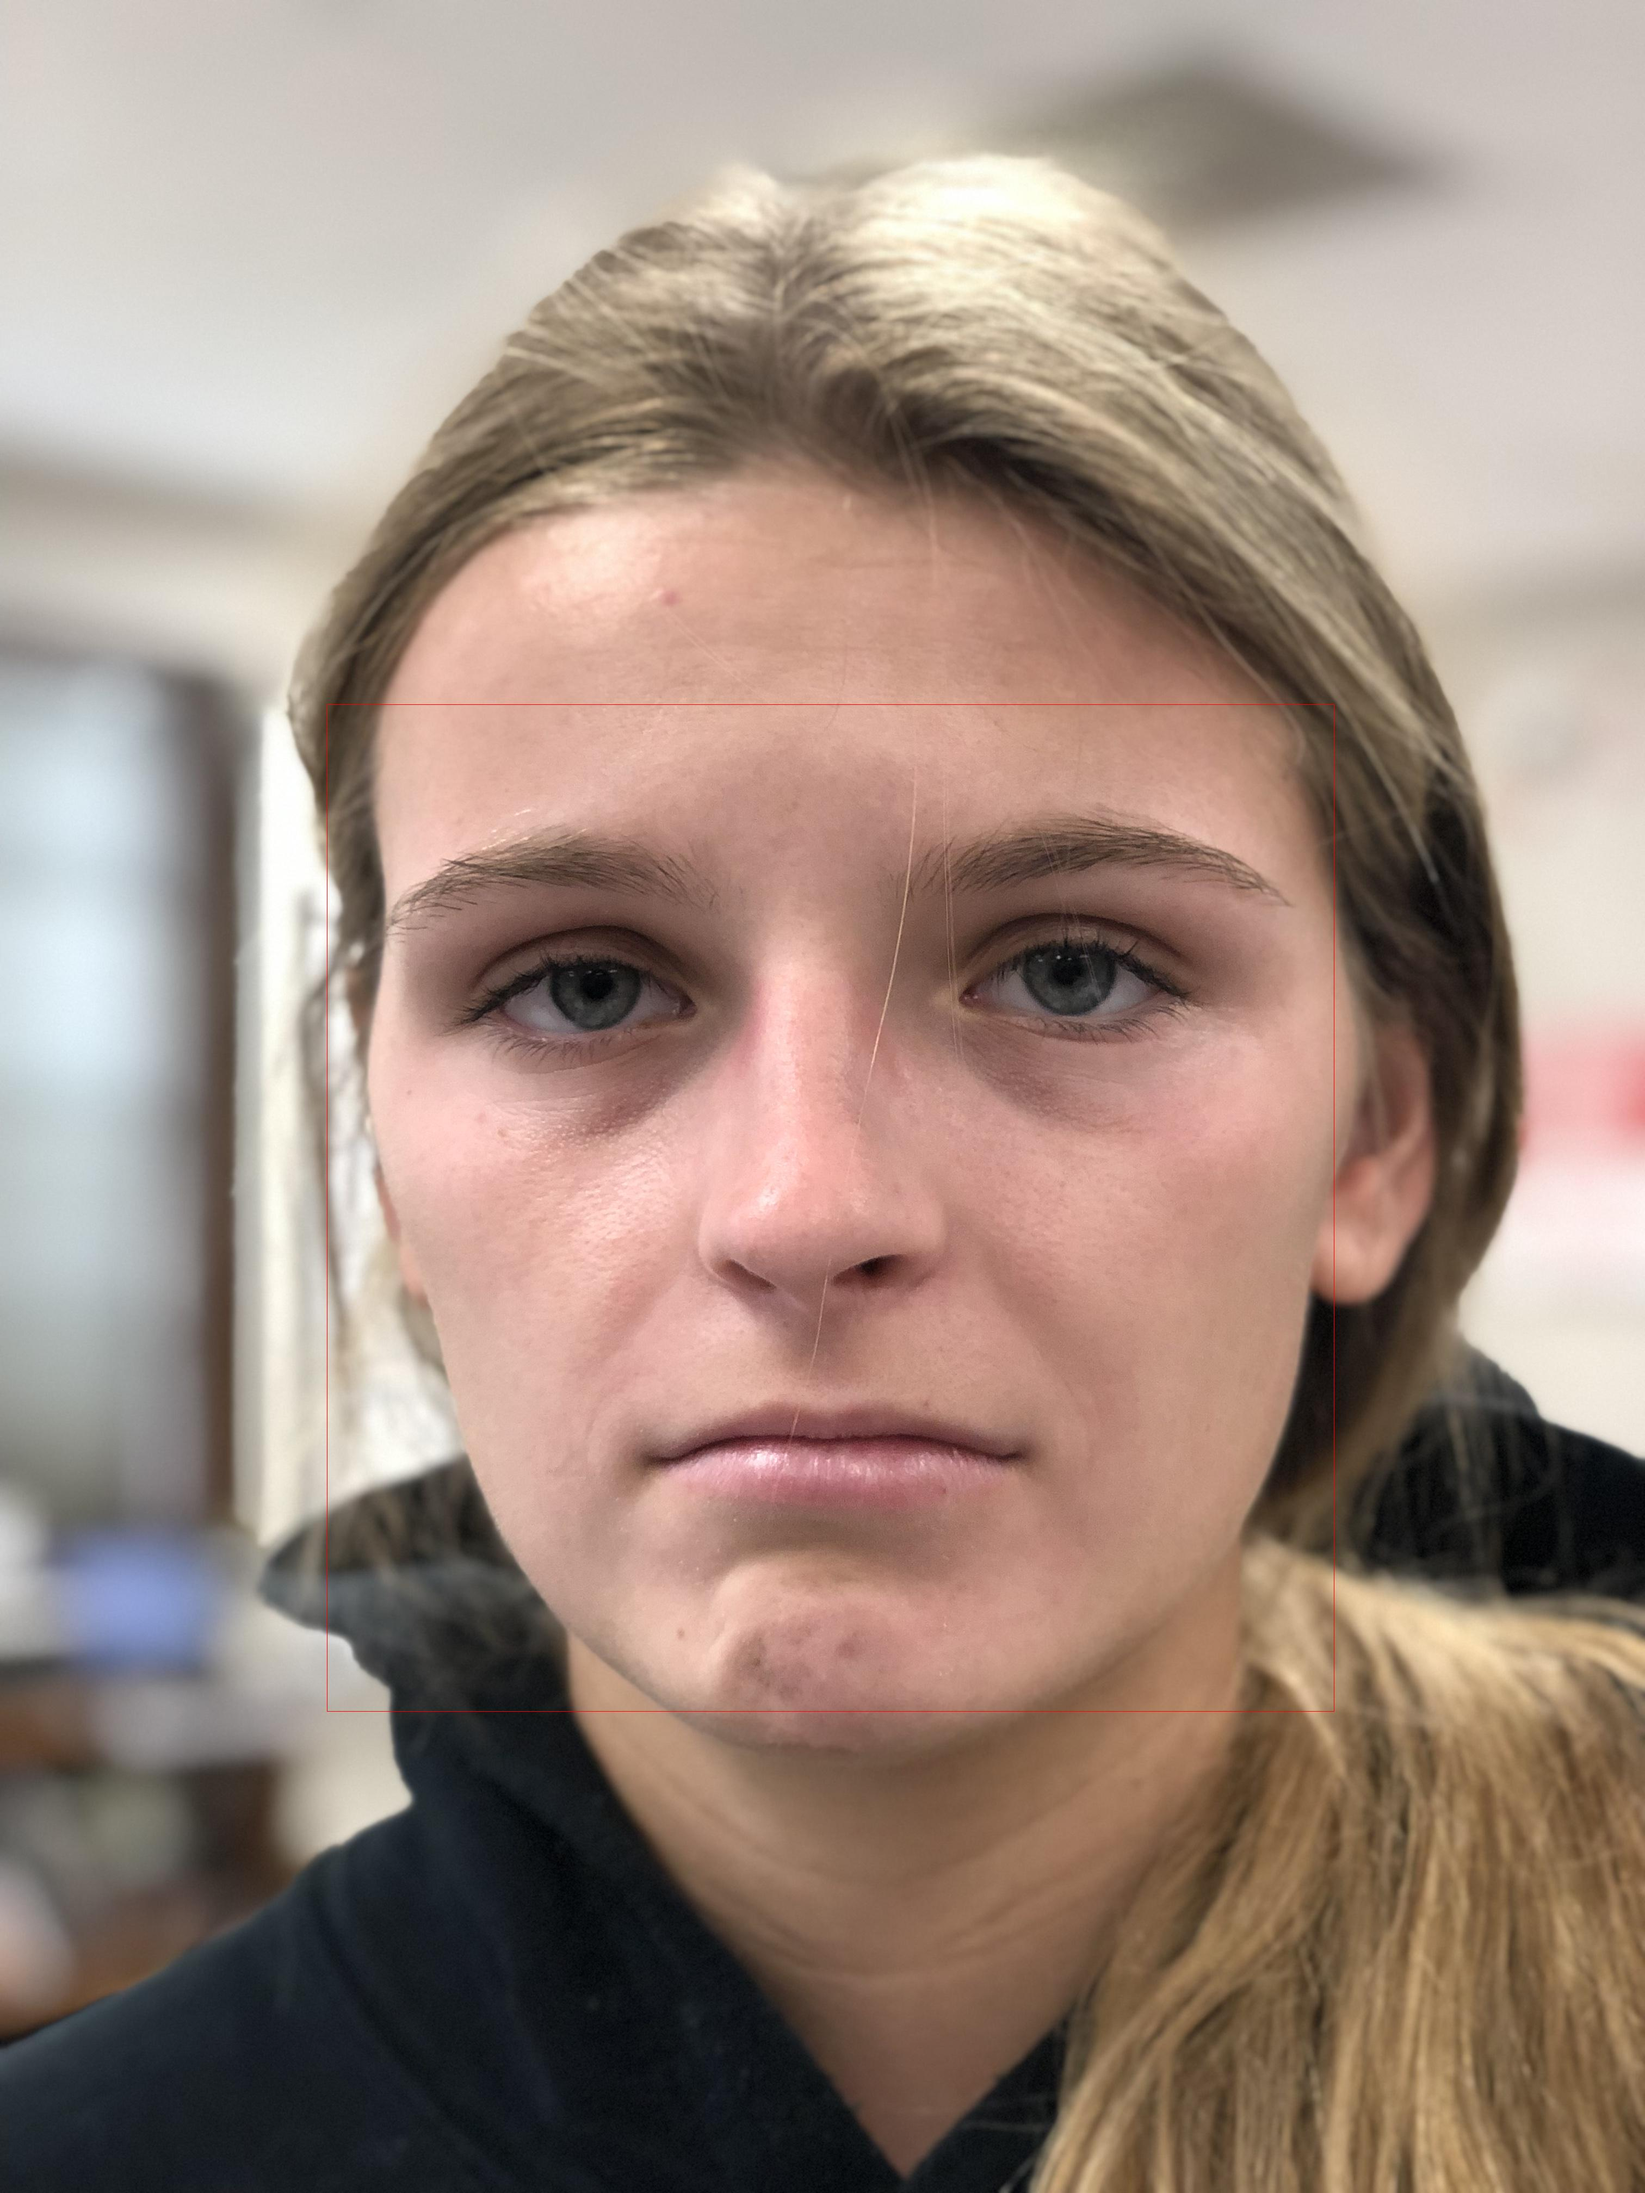
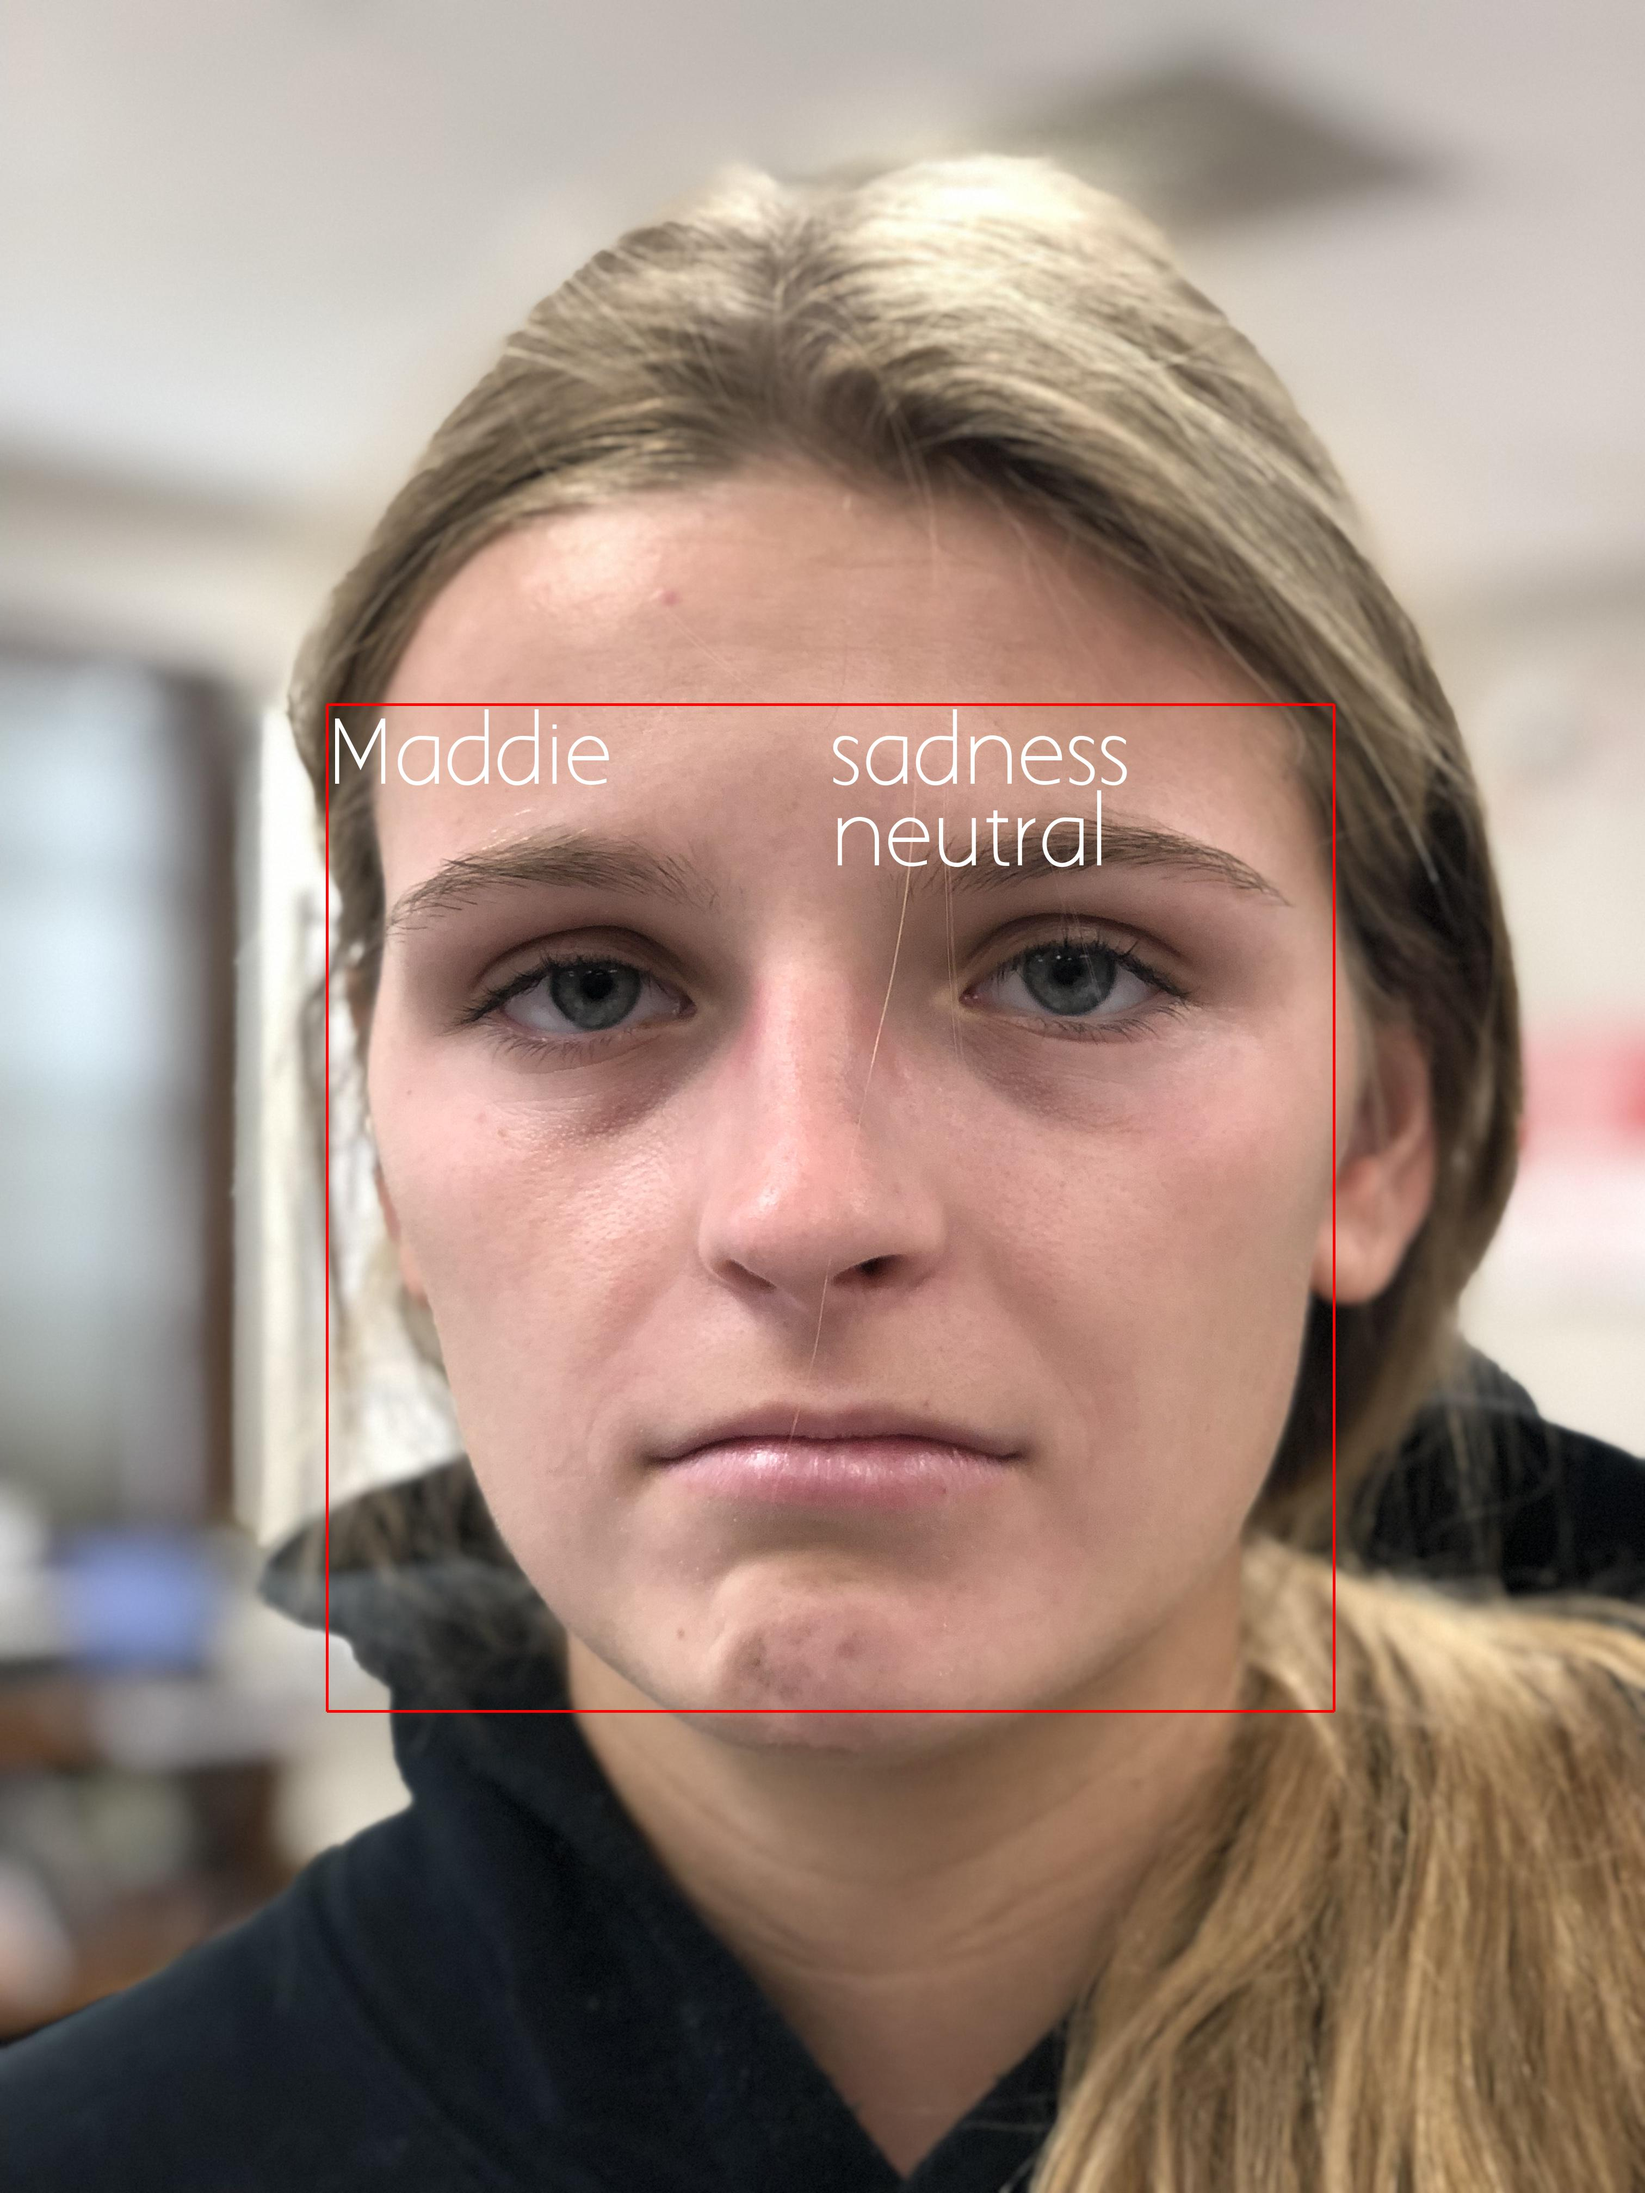
added text to pictures

Changed region(s): [[0.4974, 0.3125, 0.6839, 0.4062], [0.1865, 0.3125, 0.373, 0.375], [0.1865, 0.75, 0.2176, 0.7812]]

diff --git a/FaceQuickstart.py b/FaceQuickstart.py
@@ -3,7 +3,7 @@ import requests
 import sys
 import configparser
 from io import BytesIO
-from PIL import Image, ImageDraw
+from PIL import Image, ImageDraw, ImageFont, ImageDraw
 import pyodbc
 
 config = configparser.ConfigParser()
@@ -14,8 +14,13 @@ CF.Key.set(KEY)
 
 BASE_URL = 'https://centralus.api.cognitive.microsoft.com/face/v1.0/'  
 CF.BaseUrl.set(BASE_URL)
-squad = {'Valeria': u'7526cf4d-f148-4b97-9579-202135e1cfe5', 'Ashley': u'7b009654-c6dc-49ef-ad63-4eed942e0df6', 'Jessica': u'ddd879d5-3861-4e4b-ab0e-462dfc4e229d', 'Meghan': u'2fb9f46f-ec00-46d6-aa26-e093ecacda6f', 'Stephanie': u'b16a25d2-8fda-46ca-ae5d-022751909029', 'Rachel': u'351a7352-4e92-4077-841d-ddd66359abe3', 'Hadley': u'a091502a-8f5a-47a7-a6d3-ff00204af15c', 'Devyn': u'fe10ad2c-cb67-4db4-a0b8-db9fa15ad9bd', 'Maddie': u'61c4f644-193f-4343-937d-996b3c3694f5', 'Lily': u'a8f0529b-9bba-43c4-bb0f-10a8fe0ca321', 'Katie': u'2d10b89e-50d2-4325-9ec8-727b6d21fc98'}
+squad = {'Valeria': u'3b8d1352-a40f-4d3b-b961-b71a1b6df573', 'Ashley': u'd5607412-789f-41f5-b1a5-a9818f21f638', 'Jessica': u'148e2c70-4d81-40b7-bf9e-843b3828e57a', 'Meghan': u'94cc2454-fa5c-4492-8961-69509d52dc9b', 'Stephanie': u'792184cb-6cb6-45e6-a311-3e30e223d478', 'Rachel': u'56c42b10-9ff1-497f-b115-d581296eefbe', 'Hadley': u'44761499-f06e-47a0-90f7-320332d63c3a', 'Devyn': u'5d094402-9d63-465f-a19d-59d8c55e35c3', 'Maddie': u'95d137be-01a0-4990-8da4-5926ed518956', 'Lily': u'53bebb64-0e6e-4626-bea0-b1f636f3ddf8', 'Katie': u'bbd75b8c-2801-44a5-a7fd-a395c2d66b70'}
 img_url = sys.argv[1]
+
+def drawrect(drawcontext, xy, outline=None, width=0):
+    (x1, y1), (x2, y2) = xy
+    points = (x1, y1), (x2, y1), (x2, y2), (x1, y2), (x1, y1)
+    drawcontext.line(points, fill=outline, width=width)
 
 #Convert width height to a point in a rectangle
 def getRectangle(faceDictionary):
@@ -54,11 +59,11 @@ def Who (faceDictionary):
             Who = name
     return Who
 
-conn = pyodbc.connect(config['Default']['DB'])
+# conn = pyodbc.connect(config['Default']['DB'])
 try:
-    cursor = conn.cursor()
-    cursor.execute("insert into images(image_path, status) values ('"+img_url+"', 'PROCESSING')")
-    conn.commit()
+    # cursor = conn.cursor()
+    # cursor.execute("insert into images(image_path, status) values ('"+img_url+"', 'PROCESSING')")
+    # conn.commit()
     faces = CF.face.detect(img_url, attributes=['emotion'])
     print(faces)
 
@@ -68,24 +73,32 @@ try:
 
     #For each face returned use the face rectangle and draw a red box.
     draw = ImageDraw.Draw(img)
+    font = ImageFont.truetype("Aaargh.ttf", 150)
     for face in faces:
-        draw.rectangle(getRectangle(face), outline='red')
+        rec = getRectangle(face)
+        drawrect(draw, rec, outline='red', width=5)
+        # draw.rectangle(getRectangle(face), outline='red')
         emotions = getEmotions(face)
         print emotions
         who = Who(face)
+        draw.text( (rec[0][0], rec[0][1]) ,who,(255,255,255),font=font)
+        yShift = 0
         for emotion in emotions['validemotions']:
             print emotion
+            draw.text( ((rec[0][0] + rec[1][0])/2, (rec[0][1] + yShift)) ,emotion,(255,255,255),font=font)
+            yShift = yShift + 150
             analysisSQL = "INSERT INTO IMAGE_ANALYSIS(STUDENT_ID, EMOTION, PERCENTAGE, IMAGE_ID) values ((select ID FROM STUDENTS WHERE face_id = '"+squad[who]+"'), '"+emotion+"', "+str(int(emotions['validemotions'][emotion]))+", (select ID FROM IMAGES WHERE IMAGE_PATH = '"+img_url+"'))"
-            print analysisSQL
-            cursor.execute(analysisSQL)
+            # print analysisSQL
+            # cursor.execute(analysisSQL)
 
     #Display the image in the users default image browser.
     img.save(img_url.replace('.jpg', config['Default']['Replace']), 'JPEG')
-    cursor.execute("update images set status = 'SUCCESS' where image_path = '"+img_url+"'")
-    conn.commit()
+    # cursor.execute("update images set status = 'SUCCESS' where image_path = '"+img_url+"'")
+    # conn.commit()
 except Exception as e:
-    cursor.execute("update images set status = 'FAIL' where image_path = '"+img_url+"'")
-    conn.commit()
+    # cursor.execute("update images set status = 'FAIL' where image_path = '"+img_url+"'")
+    # conn.commit()
     raise e
 finally:
-    conn.close()
+    # conn.close()
+    pass

diff --git a/testGroup.py b/testGroup.py
@@ -1,0 +1,24 @@
+import cognitive_face as CF
+import requests
+import sys
+import configparser
+from io import BytesIO
+from PIL import Image, ImageDraw
+import os
+
+config = configparser.ConfigParser()
+config.read('conf.ini')
+
+KEY = config['Default']['key'] 
+CF.Key.set(KEY)
+
+BASE_URL = 'https://centralus.api.cognitive.microsoft.com/face/v1.0/'  
+CF.BaseUrl.set(BASE_URL)
+
+personGroupID = 'villa-hack'
+
+print CF.person_group.get(personGroupID)
+print "test"
+print CF.person_group.get_status(personGroupID)
+
+print CF.person_group.lists()
